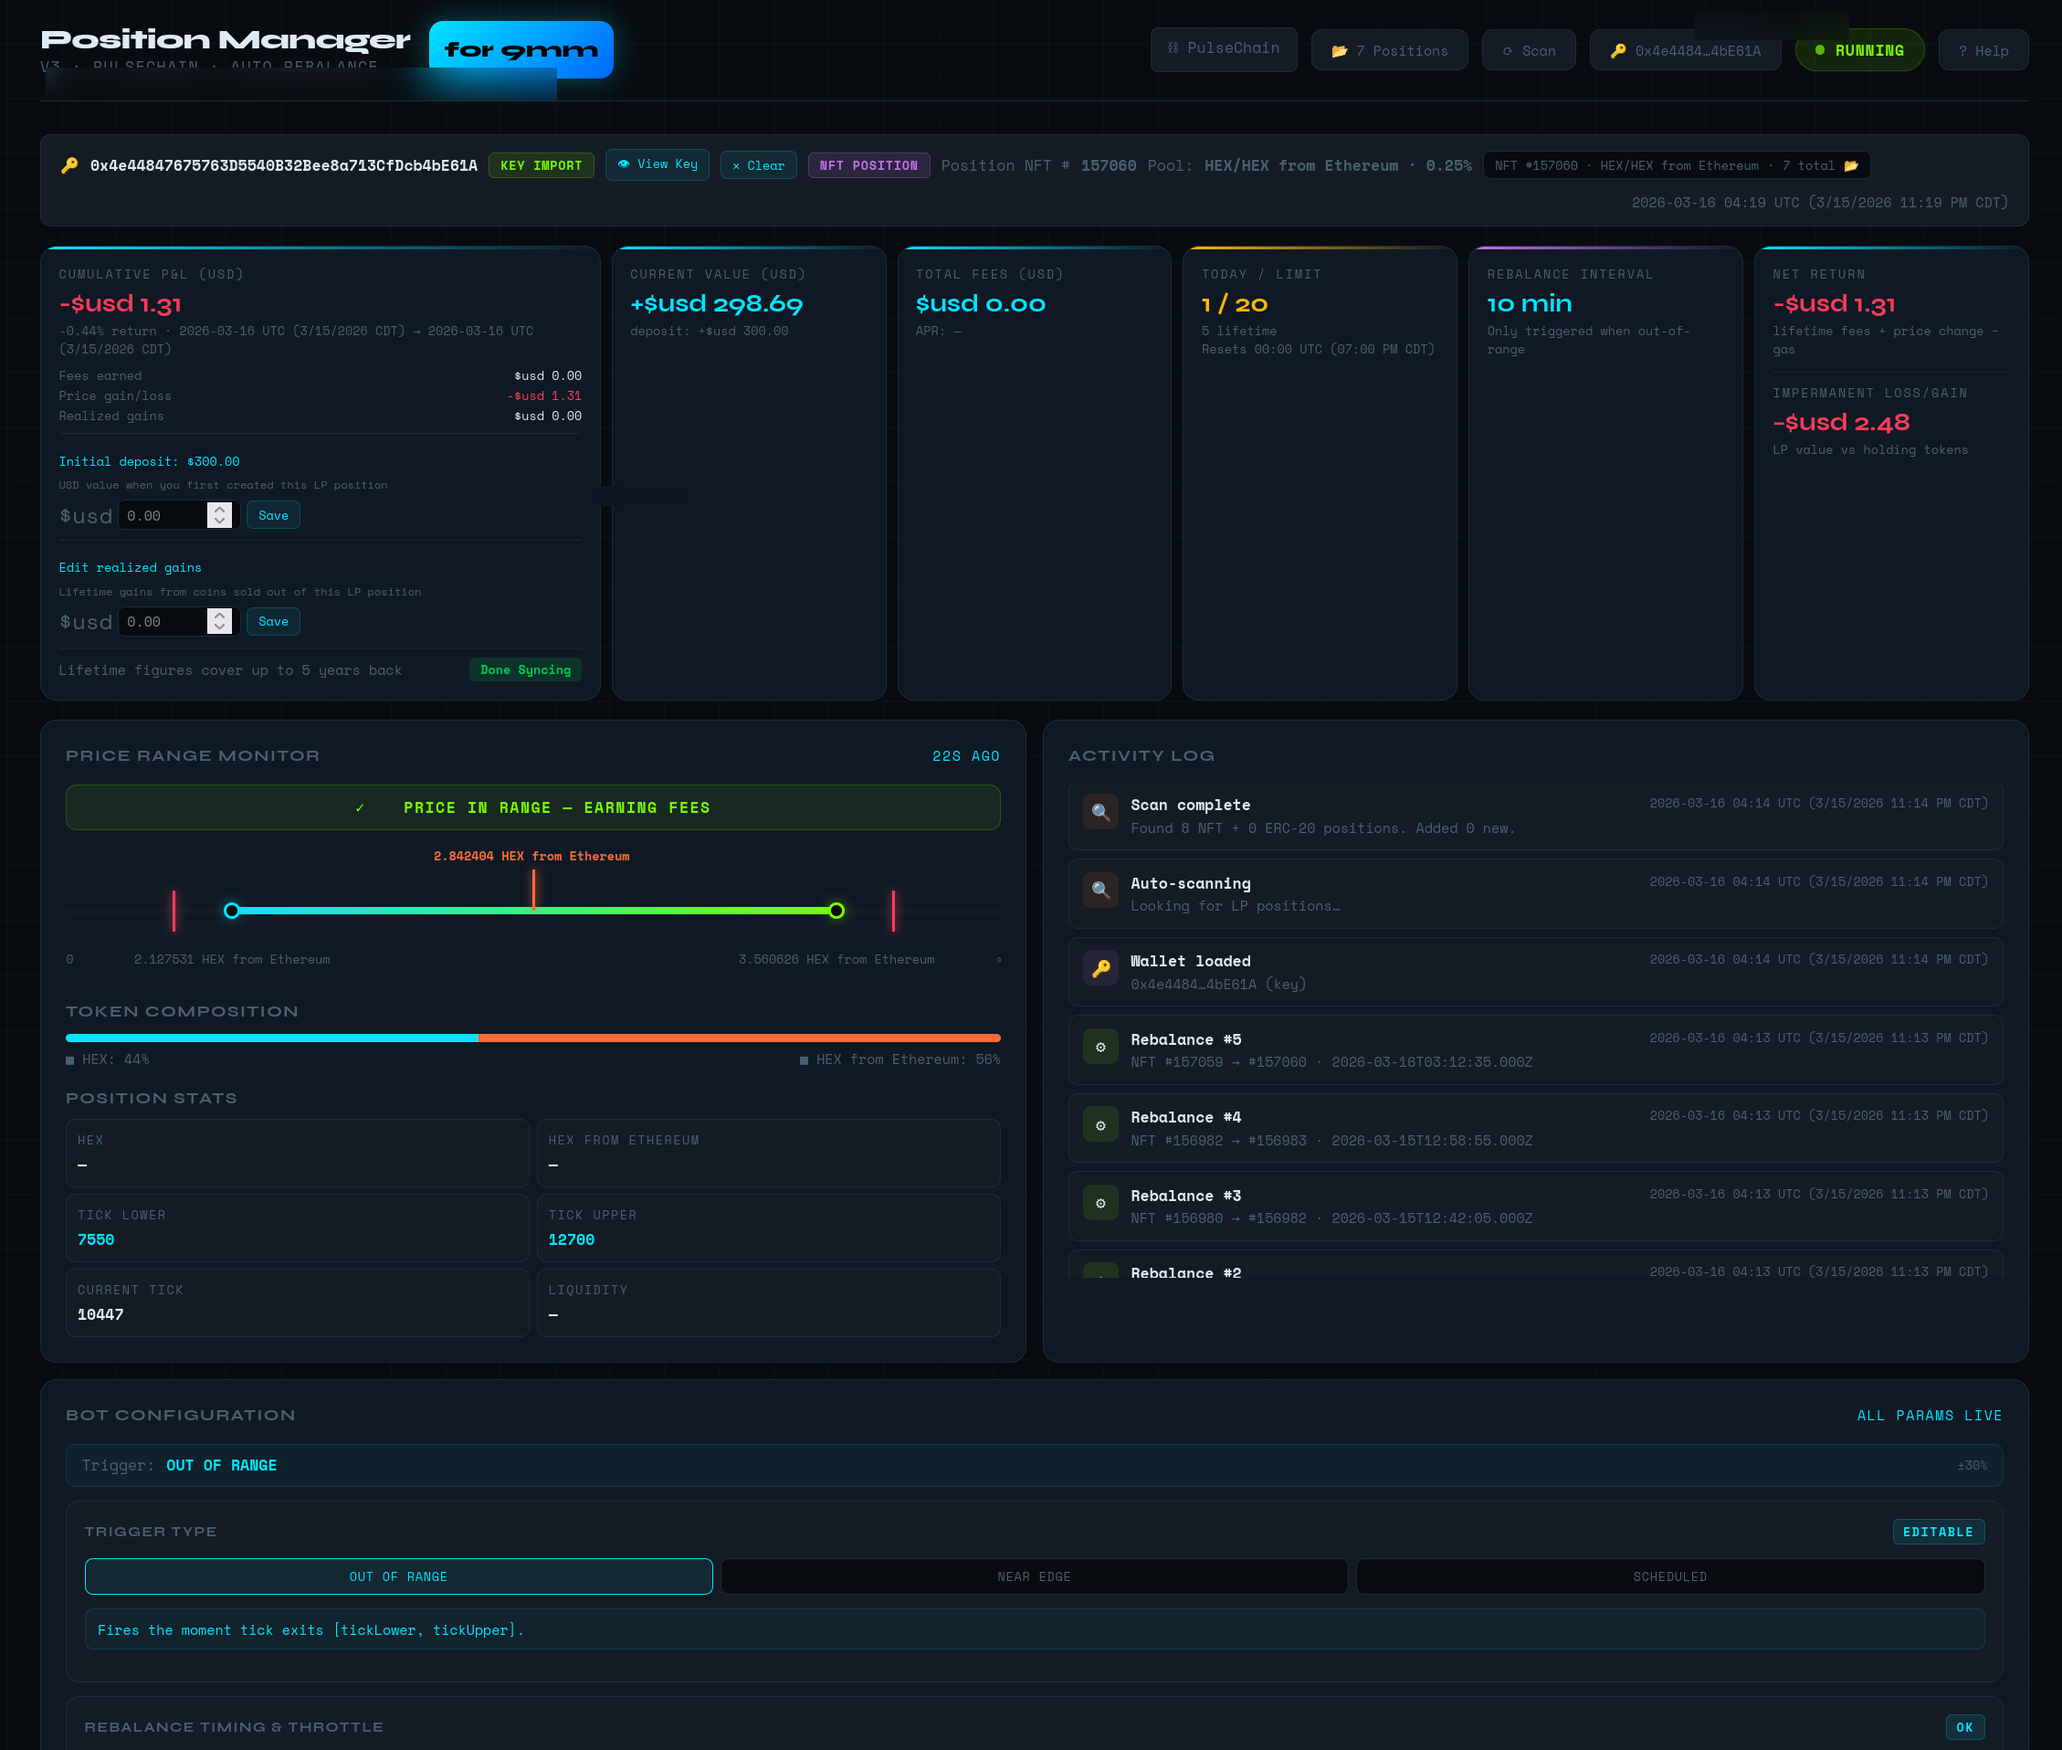
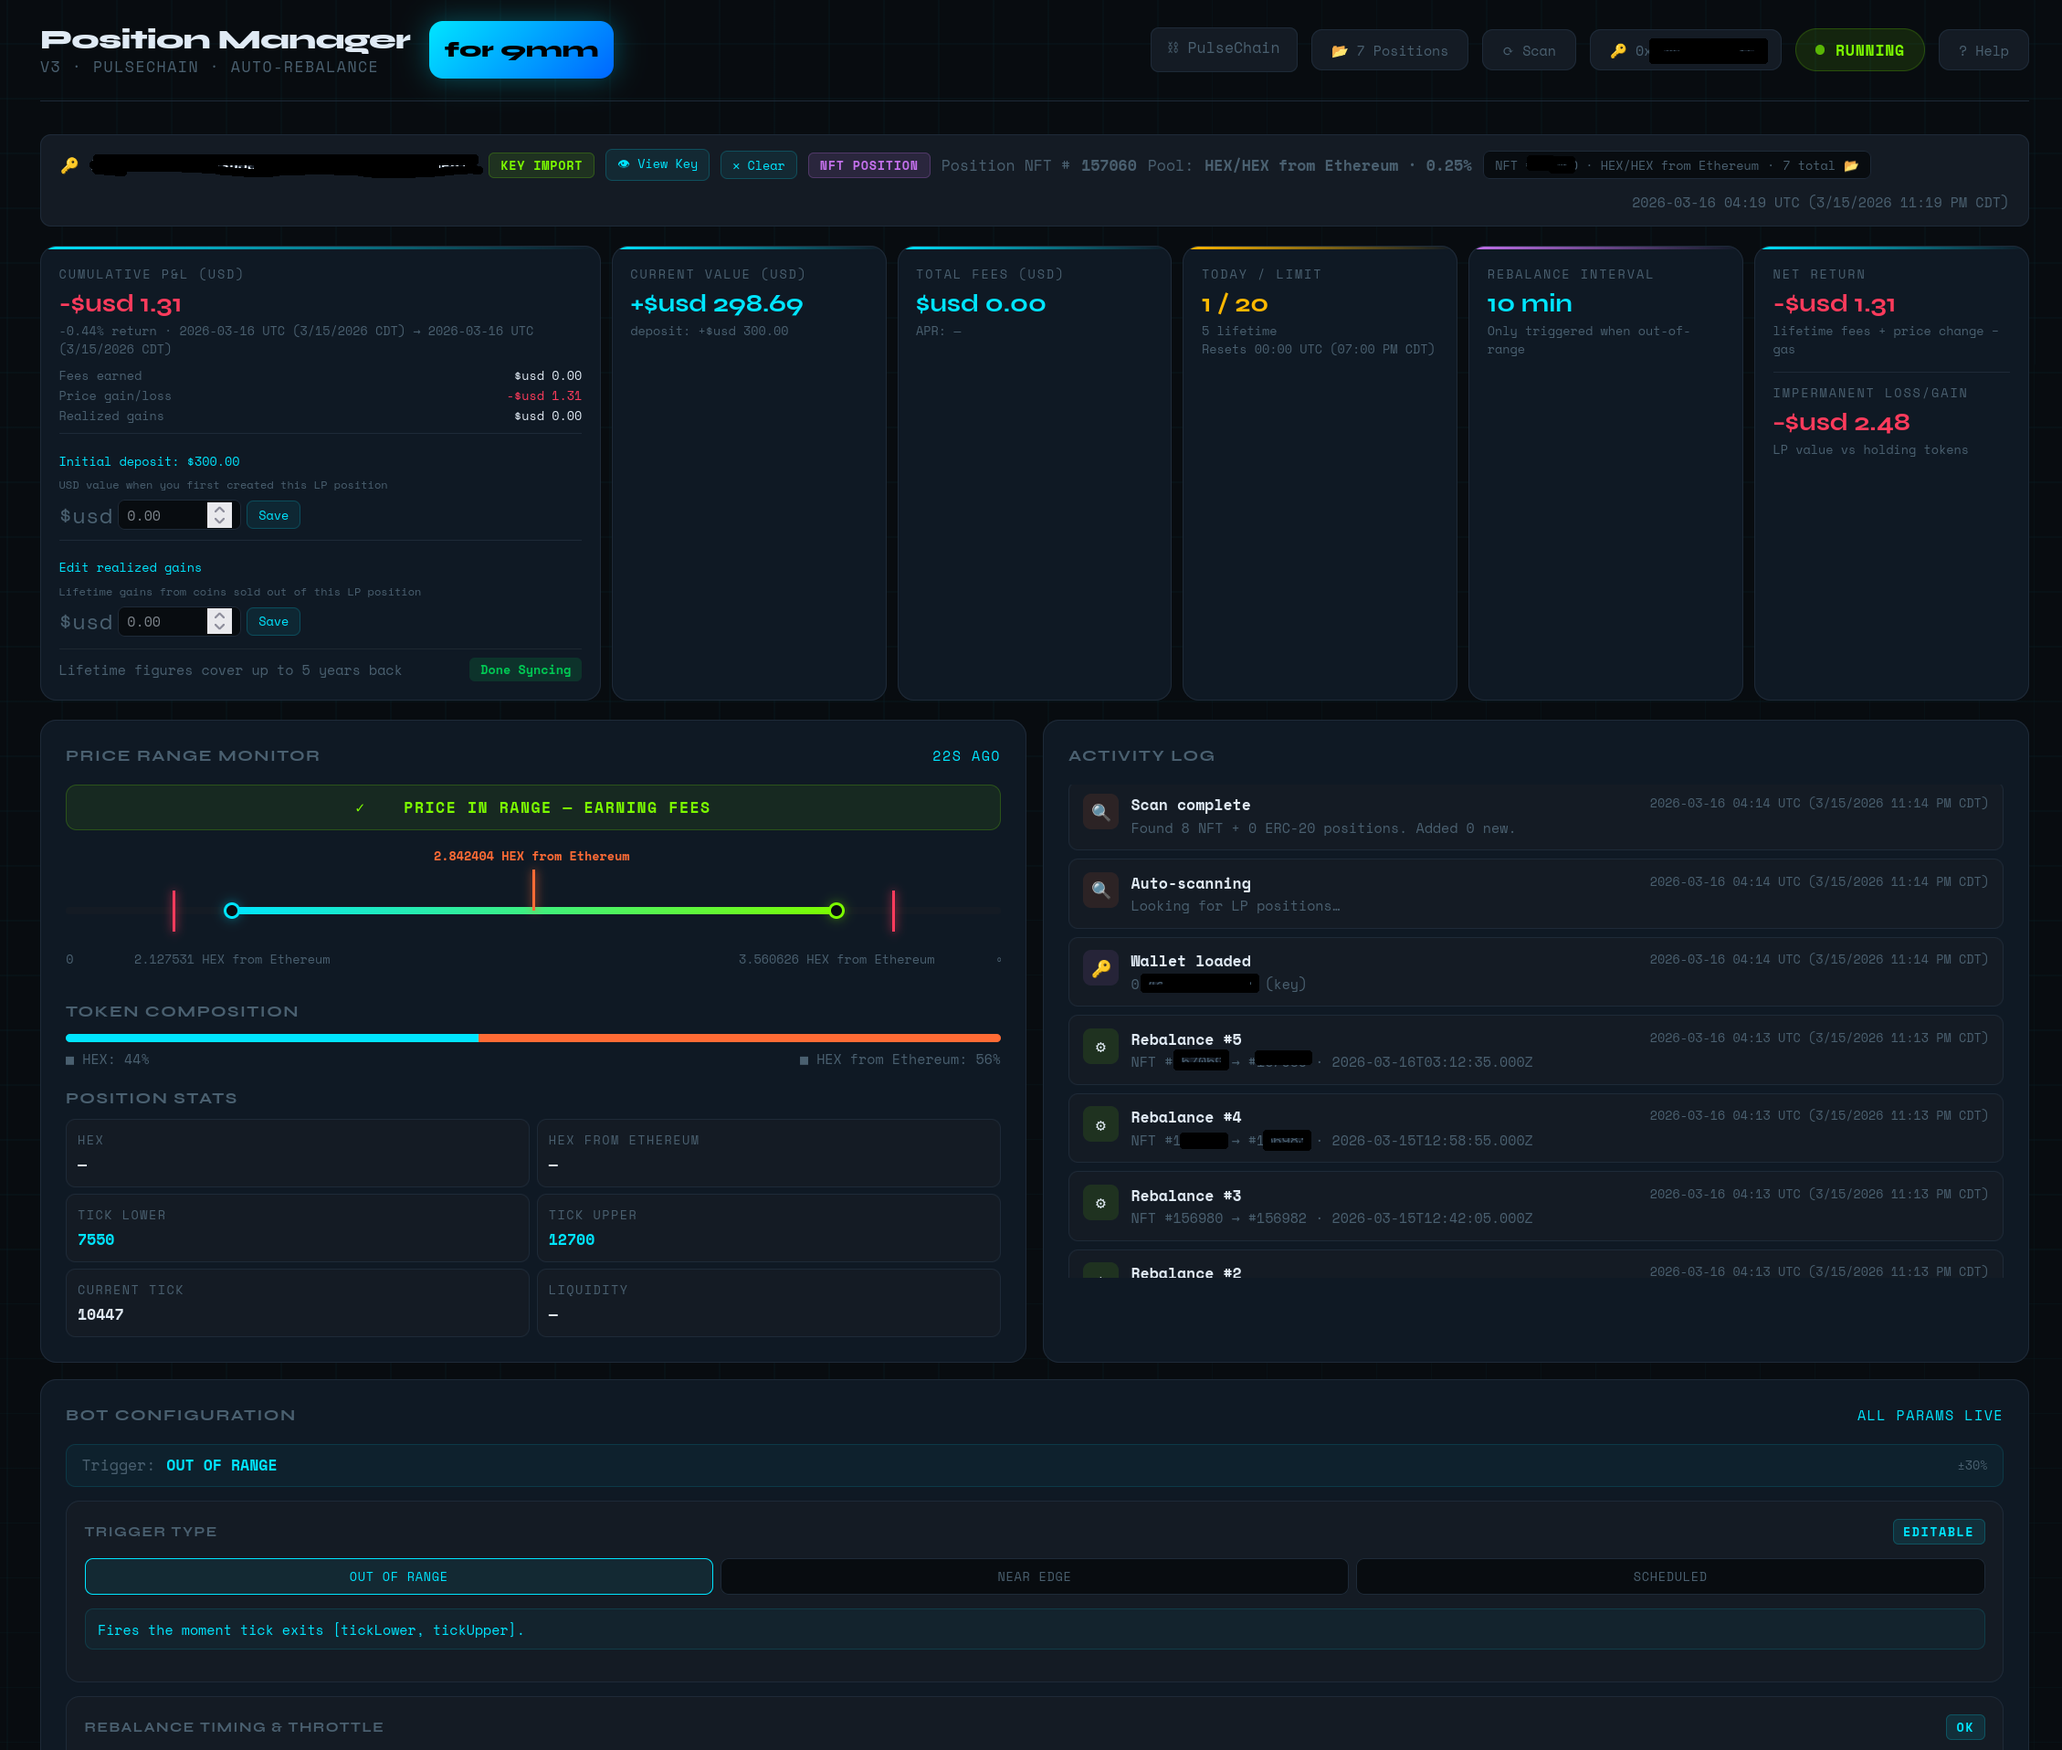
Blur wallet addresses in dashboard screenshot and update README description

diff --git a/README.md b/README.md
@@ -1,4 +1,4 @@
-# 9mm v3 Position Manager
+# Position Manager for 9mm v3
 
 Auto-rebalancing concentrated liquidity manager for [9mm Pro](https://9mm.pro)
 (Uniswap v3 fork) on PulseChain, with complete P&L stats extending back up to five years for a single liquidity pool on a given wallet address. With Position Manager, you know where you're at.
